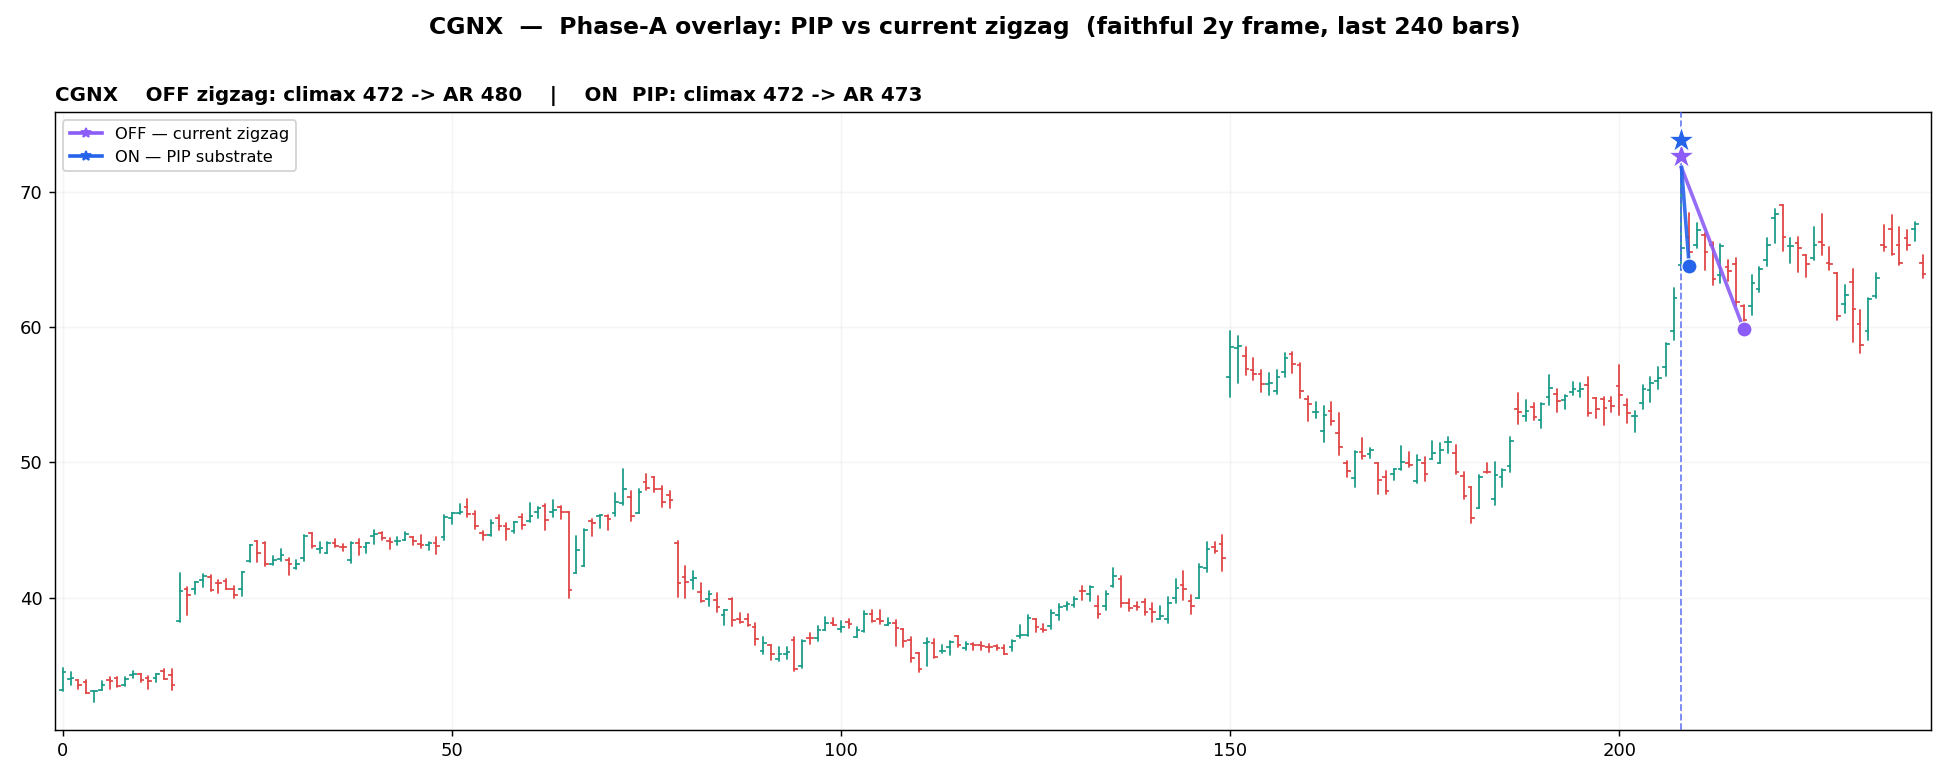
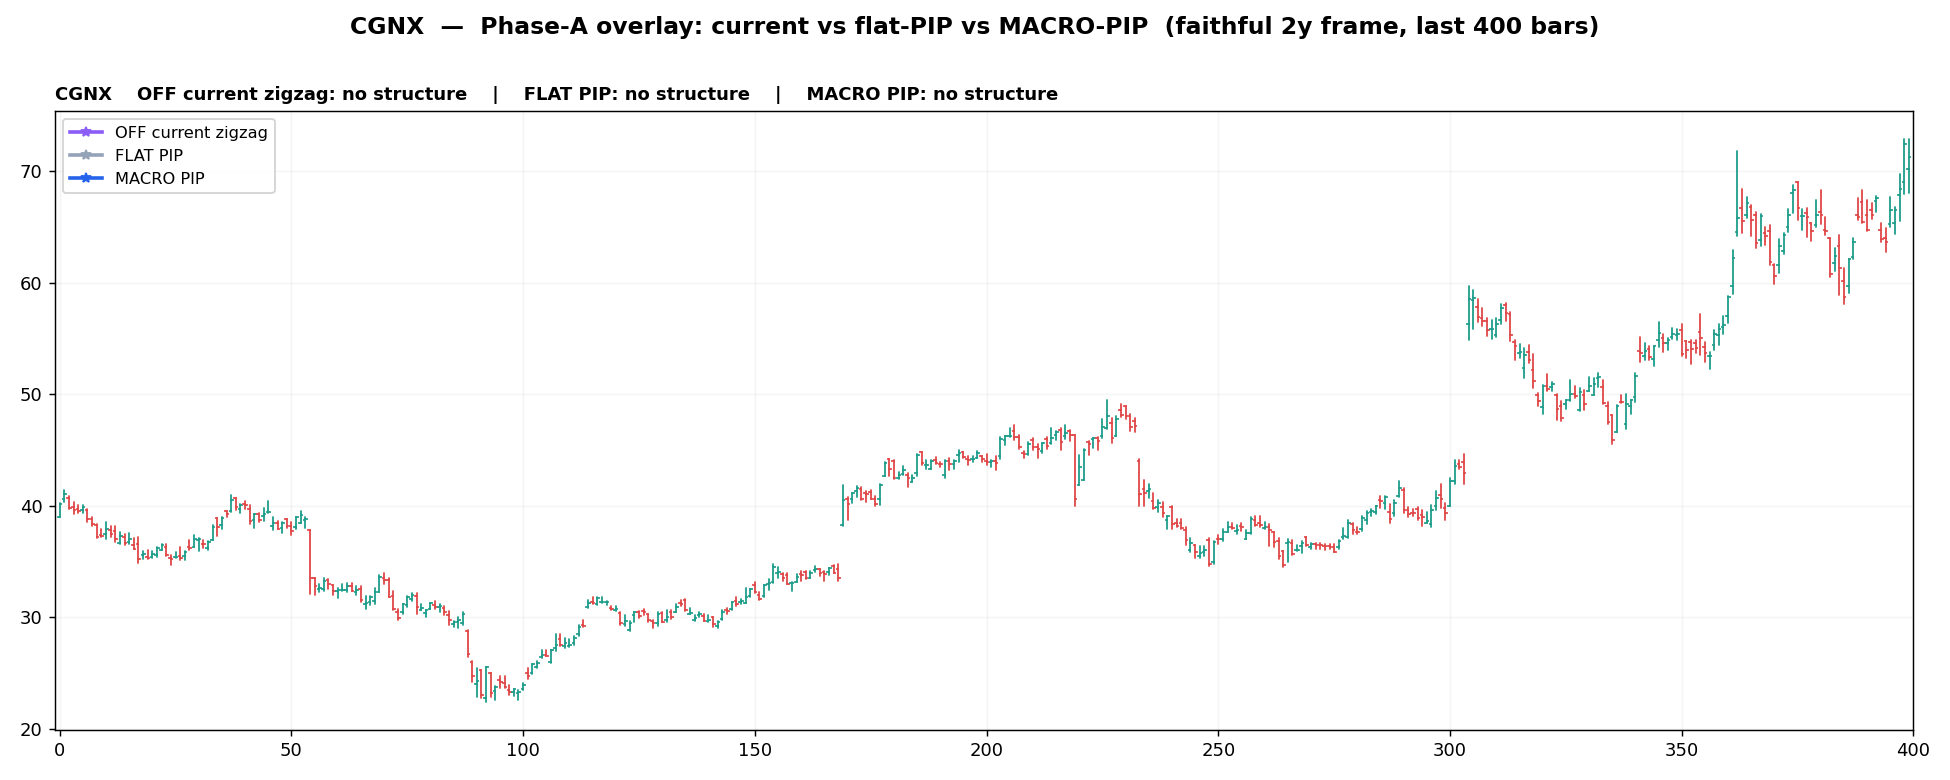
feat(tools): parallel 3-way Phase-A scan + first universe evidence run
phase_a_pip_diff --jobs (default cores-2): the scan's 3x read_structure
captures fan over a process pool (96 single-core minutes -> ~7), progress
flushed to stderr; matplotlib import moved lazy so workers stay light.

Evidence (2026-07-02, full cache): 79 fire, off-vs-macro moves 57 overlays
(flat reference 47), stolen-climax proxy 0 in all modes. Live failure class =
degenerate 1-6-bar right-edge stubs, which macro re-anchors to genuine 15-35
bar climax->AR reactions; eyeballed GOOD/BYD/SAFE/ATI all read macro-correct,
flat independently agrees with macro on ATI. Renders + scan log committed under
tools/fidelity/pip_phase_a/; doc updated with the read + flip protocol.
Flip stays the operator's call.

diff --git a/tools/phase_a_pip_diff.py b/tools/phase_a_pip_diff.py
@@ -55,7 +55,6 @@ from core.pipeline.downloads import _trim_to_period
 from core.pipeline.evaluation import apply_baseline_filters
 from core.structure.indicators import calculate_atr
 from core.structure.narrative import read_structure
-from tools.pip_preview import _draw_ohlc
 
 _OUT_DIR = os.path.join(_THIS, "fidelity", "pip_phase_a")
 _MODES = ("off", "flat", "macro")
@@ -134,26 +133,60 @@ def _load_cache():
 
 # ---------------------------------------------------------------- scan ----
 
-def scan(d, level0):
+def _capture_one(args):
+    """Pool worker: one ticker's 3-way capture (top-level for pickling)."""
+    t, df, atr = args
+    return t, capture_overlays(df, atr)
+
+
+def scan(d, level0, jobs: int = 1):
     """Faithful universe measurement: per ticker, the 3-way overlay on the live
     2y frame. Returns rows [(ticker, {mode: ov}, shift_off_macro)] for FIRING
-    setups (off not None), sorted by shift desc. Prints the summary + tables."""
+    setups (off not None), sorted by shift desc. Prints the summary + tables.
+
+    ``jobs`` > 1 fans the captures (the expensive part — 3 ``read_structure``
+    calls each) over a process pool; the cheap baseline/prep pass stays in the
+    parent. Flag flips inside ``capture_overlays`` are per-worker-process, so
+    parallel captures cannot interfere."""
     exclude = {getattr(settings, "MARKET_INDEX_SYMBOL", "SPY"), "SPY"}
-    rows = []
     tickers = sorted(t for t in level0 if t not in exclude)
+
+    prepped = []
     for i, t in enumerate(tickers):
-        if i and i % 200 == 0:
-            print(f"  ...scanned {i}/{len(tickers)}", file=sys.stderr)
+        if i and i % 500 == 0:
+            print(f"  ...prepped {i}/{len(tickers)}", file=sys.stderr, flush=True)
         try:
             df, atr = _prep_live(d[t].dropna())
         except Exception:                            # malformed column -> skip
             continue
         if df is None:
             continue
-        ovs = capture_overlays(df, atr)
+        prepped.append((t, df, atr))
+    print(f"  {len(prepped)}/{len(tickers)} tickers survive baseline; "
+          f"capturing 3-way overlays with jobs={jobs}", file=sys.stderr, flush=True)
+
+    rows = []
+
+    def _collect(t, ovs):
         if ovs["off"] is None:
-            continue                                 # no live overlay to compare
+            return                                   # no live overlay to compare
         rows.append((t, ovs, _shift(ovs["off"], ovs["macro"])))
+
+    if jobs > 1:
+        from multiprocessing import Pool
+        with Pool(jobs) as pool:
+            for i, (t, ovs) in enumerate(
+                    pool.imap_unordered(_capture_one, prepped, chunksize=8)):
+                if i and i % 200 == 0:
+                    print(f"  ...captured {i}/{len(prepped)}",
+                          file=sys.stderr, flush=True)
+                _collect(t, ovs)
+    else:
+        for i, (t, df, atr) in enumerate(prepped):
+            if i and i % 200 == 0:
+                print(f"  ...captured {i}/{len(prepped)}",
+                      file=sys.stderr, flush=True)
+            _collect(t, capture_overlays(df, atr))
 
     n_fire = len(rows)
     macro_changed = [r for r in rows if r[2]]
@@ -214,6 +247,7 @@ def render(tickers, window, d, level0):
     matplotlib.use("Agg")
     import matplotlib.pyplot as plt
     from matplotlib.lines import Line2D
+    from tools.pip_preview import _draw_ohlc
 
     os.makedirs(_OUT_DIR, exist_ok=True)
     table = []
@@ -286,6 +320,9 @@ def main():
                     help="with --scan: measure only, don't render")
     ap.add_argument("--top", type=int, default=6,
                     help="how many top movers to render after a scan (default 6)")
+    ap.add_argument("--jobs", type=int, default=max(1, (os.cpu_count() or 4) - 2),
+                    help="process-pool size for the scan captures "
+                         "(default: cores - 2; 1 = sequential)")
     a = ap.parse_args()
 
     d, level0 = _load_cache()
@@ -295,7 +332,7 @@ def main():
         return
 
     # No tickers -> scan (the honest default), then render the top movers.
-    changed = scan(d, level0)
+    changed = scan(d, level0, jobs=a.jobs)
     if a.no_render or not changed:
         return
     top = [r[0] for r in changed[:a.top]]

diff --git a/docs/pip_macro_phase_a.md b/docs/pip_macro_phase_a.md
@@ -100,3 +100,30 @@ creating new inversions the way flat did. GBTG/PLSE/CGNX and the archive's
 over-long-base cases (CACC/MSCI/BMRN/CWT, edge-read Finding 5) no longer fire
 on today's frame, so the judgement set is today's movers — or as-of replays via
 `structure_case_audit` if a historical re-litigation is wanted.
+
+## First universe read (2026-07-02, 5y cache of Jun 30)
+
+Full 3-way scan, 5,502 tickers → 1,932 survive baseline → **79 fire**:
+
+| measurement | result |
+|---|---|
+| off ↔ MACRO overlay changes | **57 / 79** |
+| off ↔ FLAT overlay changes | 47 / 79 (the d43e7fd reference read) |
+| stolen climaxes (climax ≥ box start) | **0 / 0 / 0** — blatant theft absent in all modes on this frame |
+
+**The live failure taxonomy turned out to be degenerate STUBS, not thefts.**
+On the big movers the current read paints 1–6-bar climax→AR stubs parked at
+the right edge (GOOD 466→467, BYD 414→415, PH 453→456 …): the bridge search
+finds only micro-wiggles near the box start at order-N resolution, because the
+real AR leg either ends outside `_SEG_AR_TOL` or is fragmented. The macro read
+re-anchors those to 15–35-bar genuine reactions (GOOD 415→439, BYD 382→397,
+SAFE 418→443) — same protection mechanism (only macro legs exist in the
+skeleton), different symptom than predicted. Rendered eyeball on
+GOOD/BYD/SAFE/ATI: macro's climax→AR is the visually correct trend→range
+bridge on all four; on ATI (climax moves LATER, +29) flat independently agrees
+with macro against the current read — the "fixes some" half of the d43e7fd
+wash, kept. No new inversions observed in the eyeballed set.
+
+**Verdict so far: strongly macro-favorable, pending the operator's own pass
+over `tools/fidelity/pip_phase_a/` before flipping
+`PIP_MACRO_PHASE_A_ENABLED`.** (House rule: the operator flips, not the build.)
